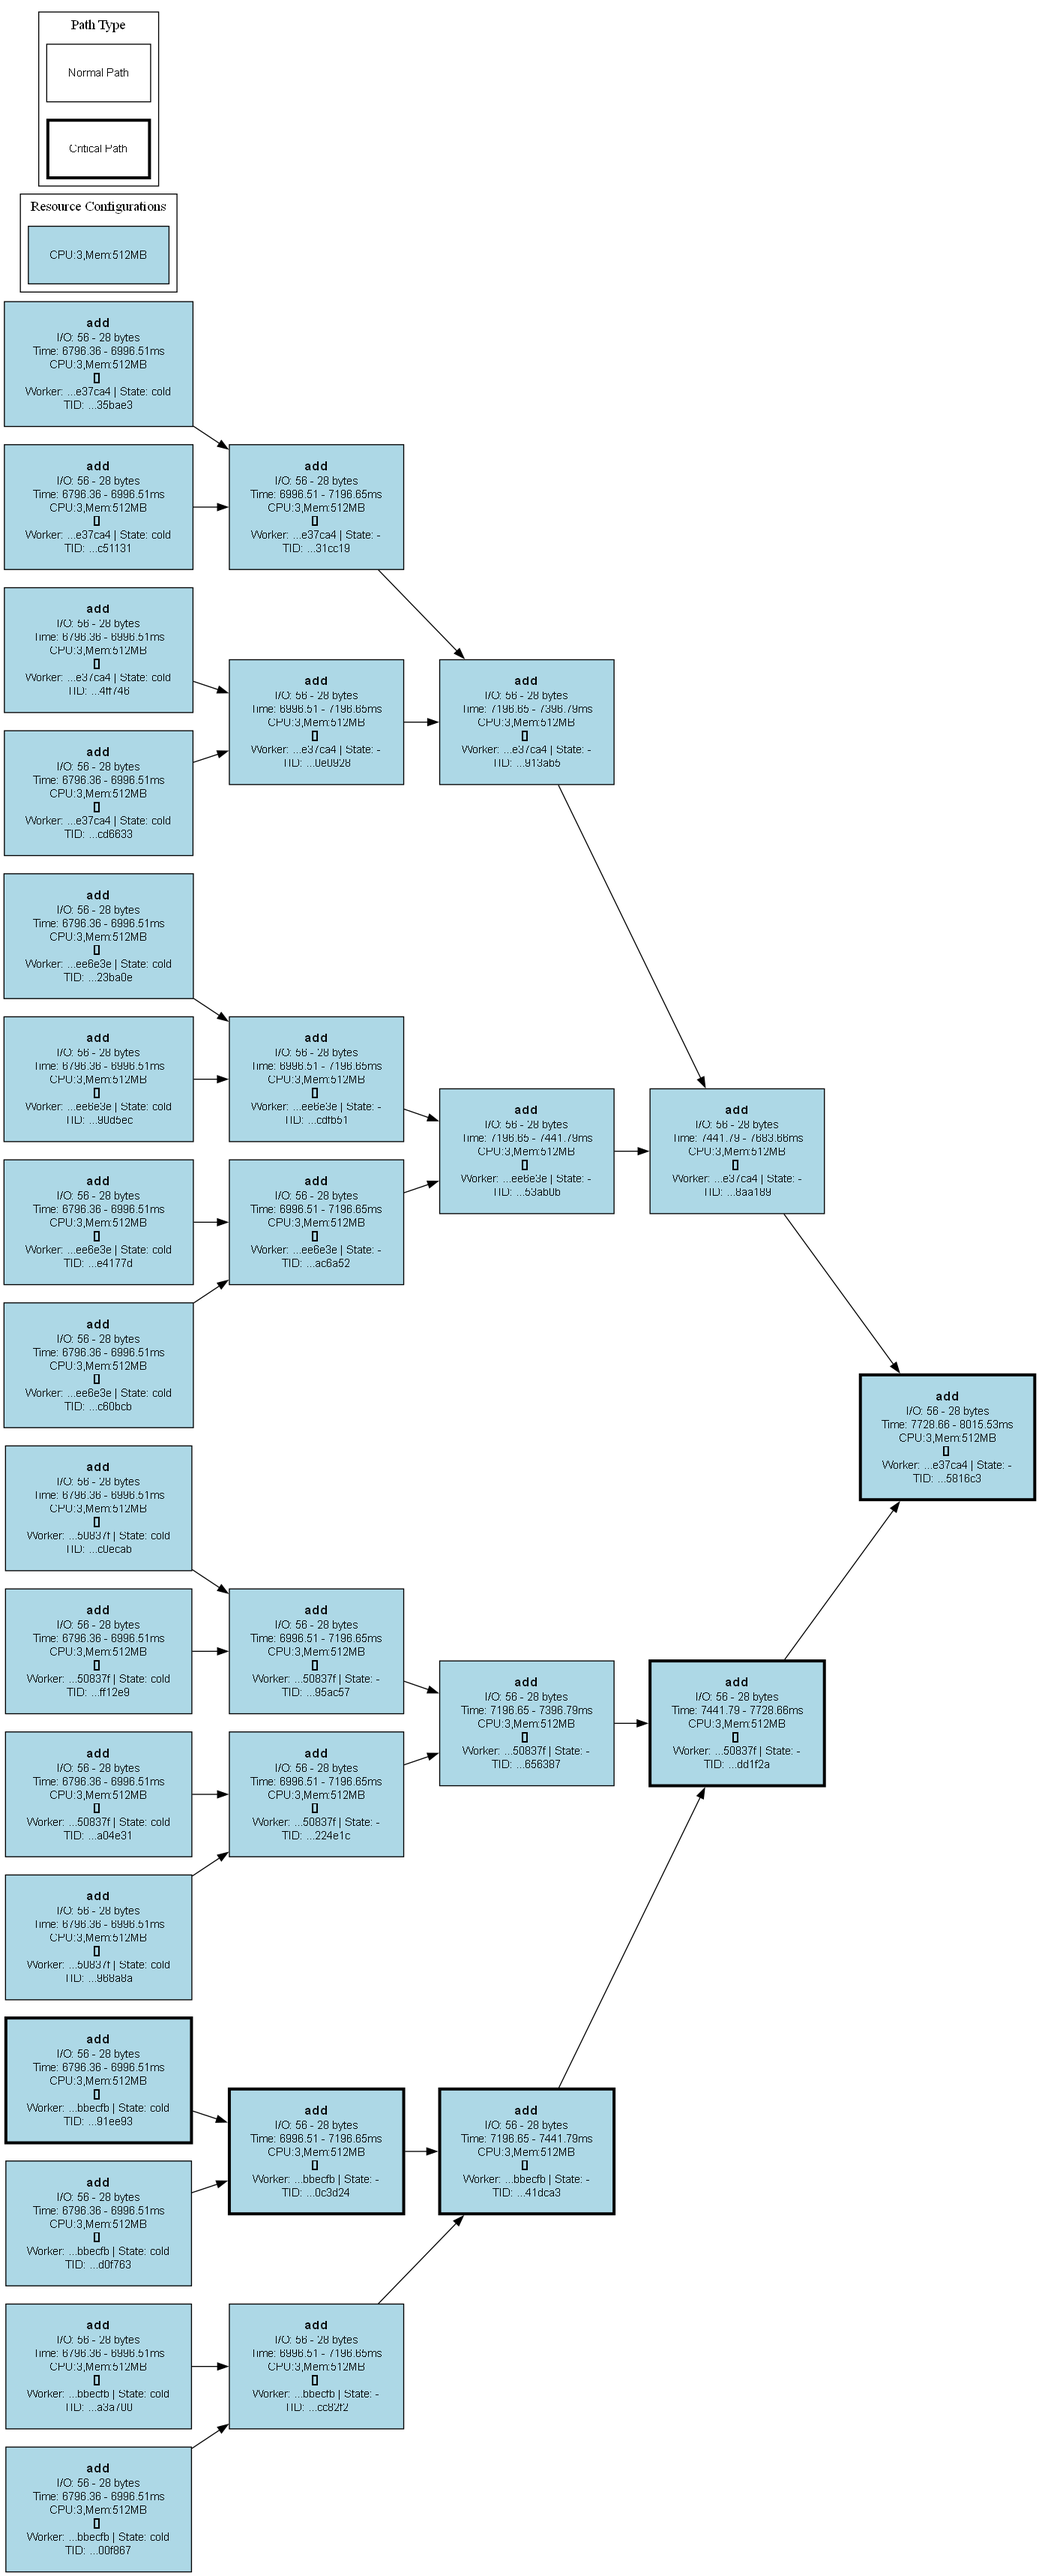
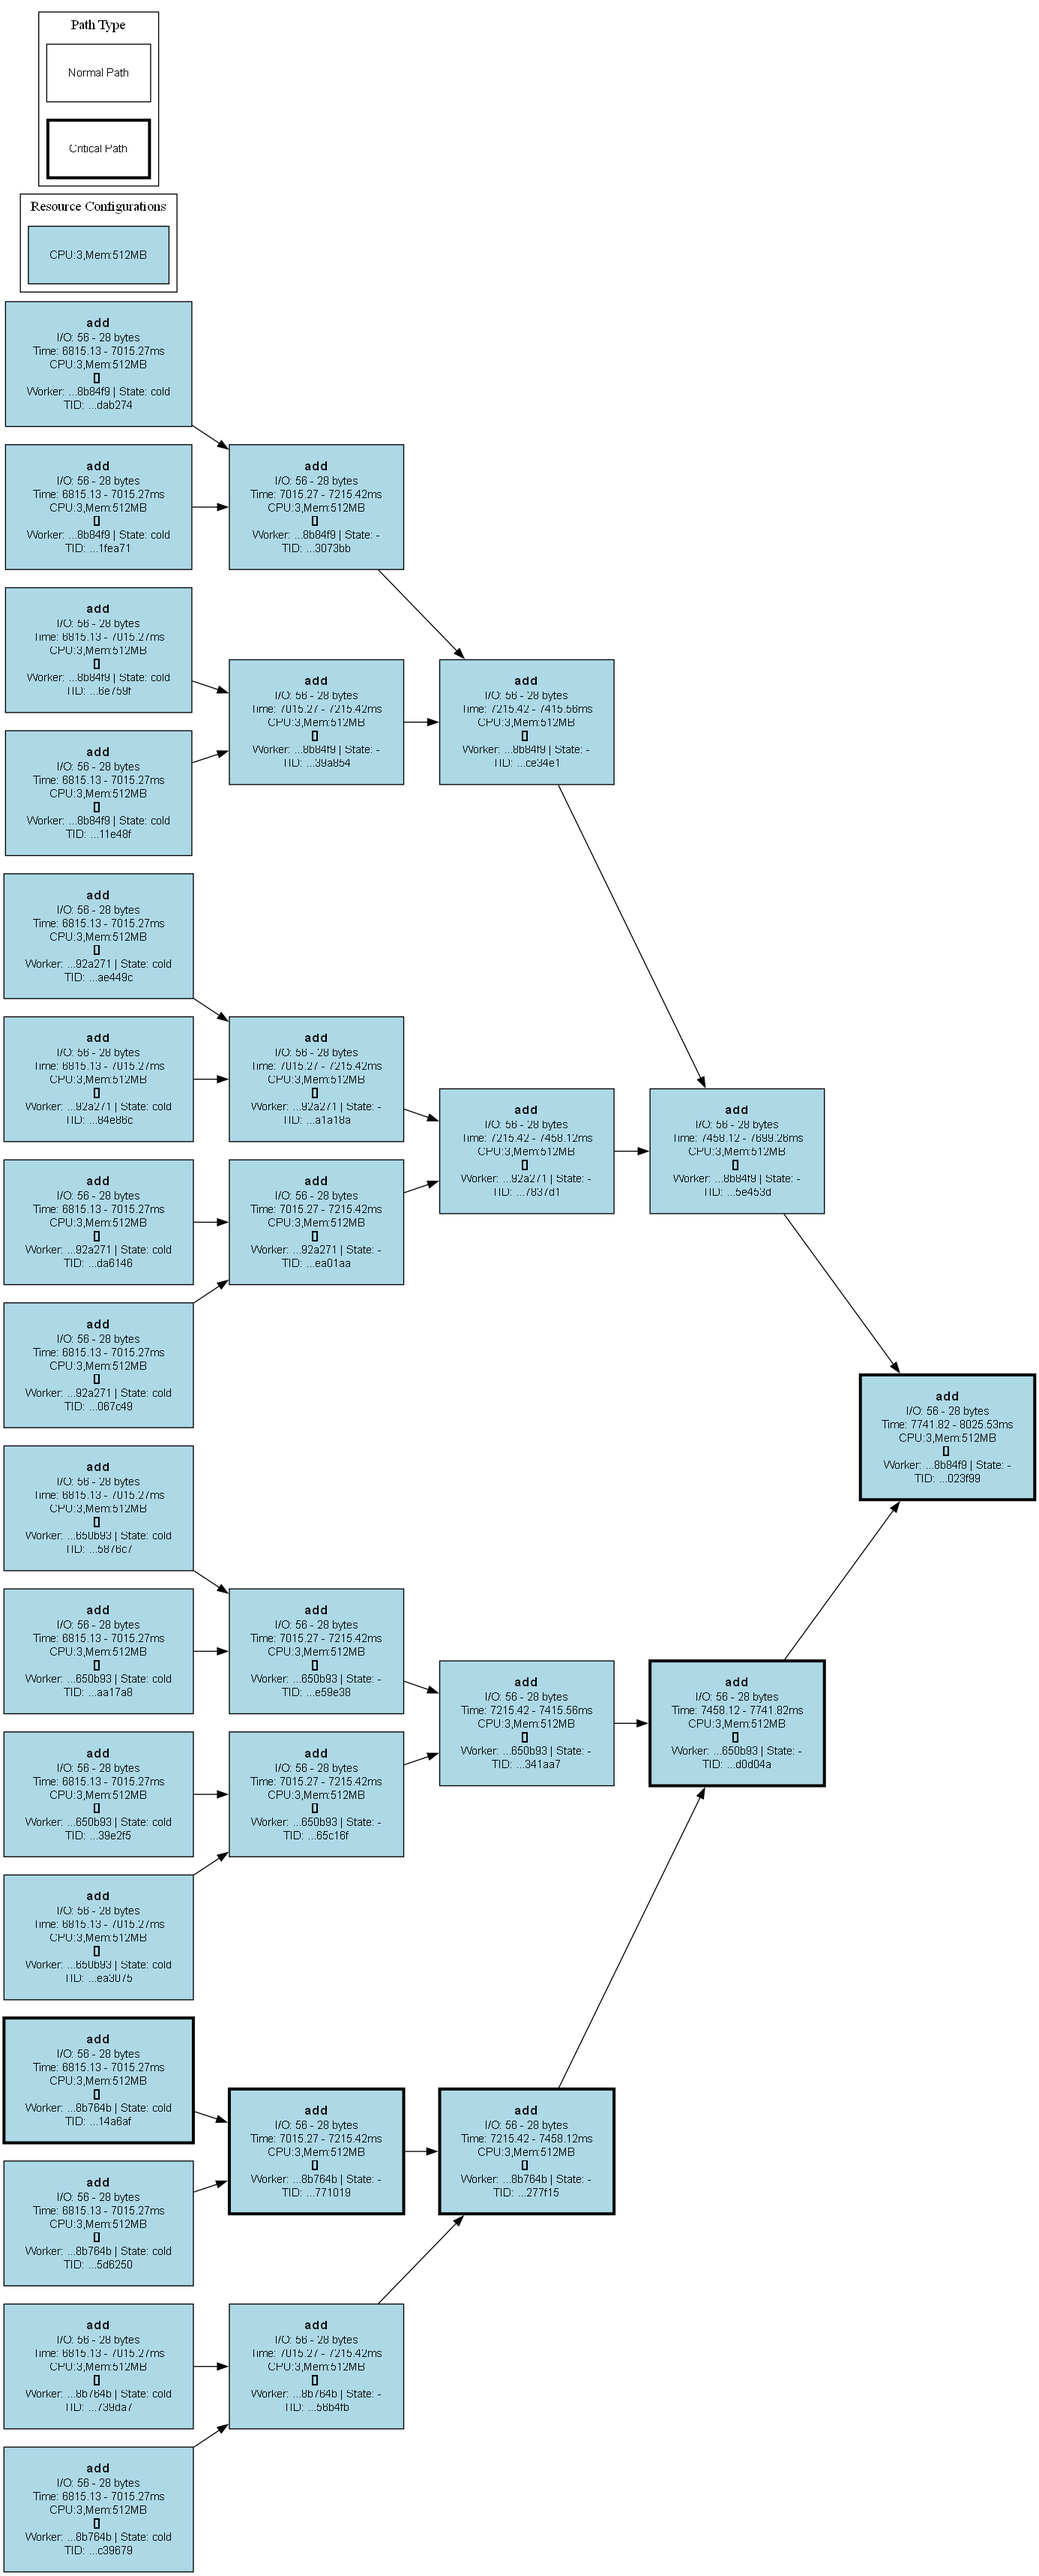
fixes to user calculated makespan

diff --git a/src/workers/worker.py b/src/workers/worker.py
@@ -1,4 +1,3 @@
-import uuid
 import asyncio
 from dataclasses import dataclass
 import time
@@ -313,12 +312,13 @@ class Worker(ABC):
         return (calculate_data_structure_size_bytes(serialized_dag), deserialized_dag)
 
     @staticmethod
-    async def wait_for_result_of_task(metadata_storage: storage_module.Storage, intermediate_storage: storage_module.Storage, task: dag_task_node.DAGTaskNode, dag: dag.FullDAG):
+    async def wait_for_result_of_task(metadata_storage: storage_module.Storage, intermediate_storage: storage_module.Storage, task: dag_task_node.DAGTaskNode, dag: dag.FullDAG, timer: Timer) -> tuple[Any, float]:
         # Poll Storage for final result. Asynchronous wait
         channel = f"{TASK_COMPLETED_EVENT_PREFIX}{task.id.get_full_id_in_dag(dag)}"
         # Use an event to signal when we've received our message
         message_received = asyncio.Event()
         result = None
+        time_of_final_notification = -1
         
         def callback(msg: dict, _):
             nonlocal result
@@ -328,11 +328,15 @@ class Worker(ABC):
         
         try:
             await message_received.wait()
+            time_of_final_notification = timer.stop()
+
             final_task_id = task.id.get_full_id_in_dag(dag)
             final_result = await intermediate_storage.get(final_task_id)
             if final_result is not None:
                 final_result = cloudpickle.loads(final_result) # type: ignore
-                return final_result
+                return (final_result, time_of_final_notification)
+            else:
+                return (None, -1)
         finally:
             await metadata_storage.unsubscribe(channel, None)
 

diff --git a/src/dag/dag.py b/src/dag/dag.py
@@ -160,19 +160,20 @@ class FullDAG(GenericDAG):
                 raise Exception("Can't use dashboard when using in-memory storage!")
             vis.DAGVisualizationDashboard.start(self, _wk_config)
         
-        _start_time = Timer()
         logger.info(f"Invoking {len(self.root_nodes)} initial workers...")
+        _start_time = Timer()
         asyncio.create_task(wk.delegate([self.create_subdag(root_node) for root_node in self.root_nodes], self, called_by_worker=False), name="delegate_initial_workers")
         await wk.metadata_storage.store_dag_submission_time(self.master_dag_id, UserDAGSubmissionMetrics(time.time() * 1000))
 
         logger.info(f"Awaiting result of: {self.sink_node.id.get_full_id_in_dag(self)}")
-        res = await Worker.wait_for_result_of_task(
+        (res, total_time_ms) = await Worker.wait_for_result_of_task(
             wk.metadata_storage.storage,
             wk.intermediate_storage,
             self.sink_node,
-            self
+            self,
+            _start_time
         )
-        logger.info(f"Final Result Ready: ({self.sink_node.id.get_full_id_in_dag(self)}) => Size: {calculate_data_structure_size_bytes(res)} | Type: ({type(res)}) | Time: {_start_time.stop()} ms")
+        logger.info(f"Final Result Ready: ({self.sink_node.id.get_full_id_in_dag(self)}) => Size: {calculate_data_structure_size_bytes(res)} | Type: ({type(res)}) | Time: {total_time_ms / 1000:.2f} s")
 
         metrics = await DockerContainerUsageMonitor.stop_monitoring(self.master_dag_id)
         await wk.metadata_storage.store_dag_resource_usage_metrics(metrics)
